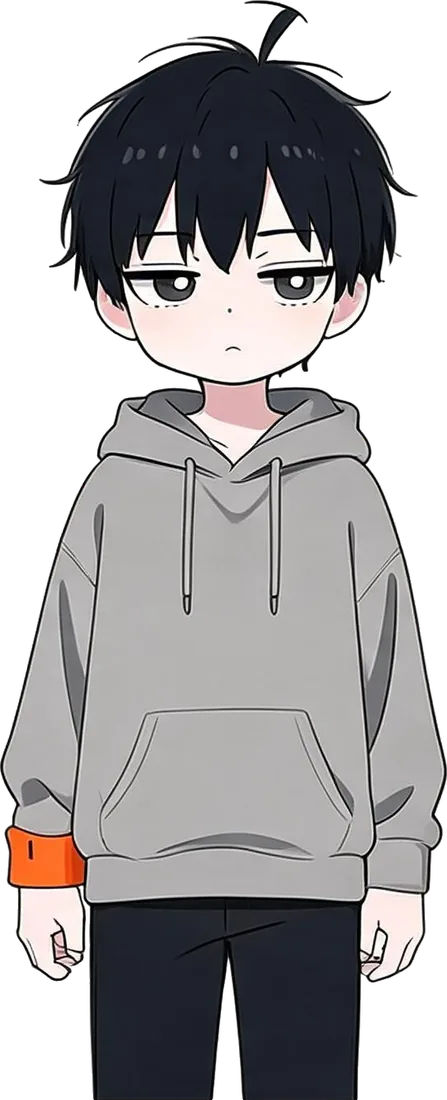
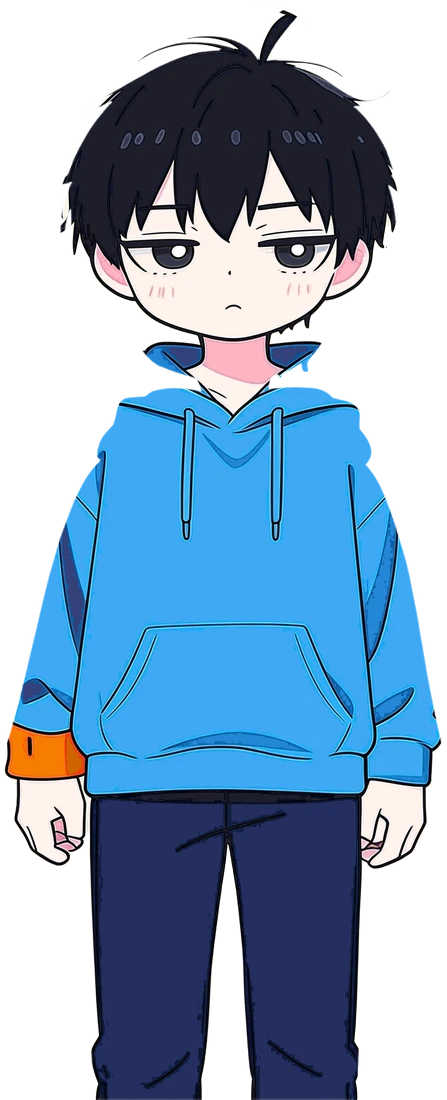
동생 정면·옆 그림(brother-front, brother-side)을 아동 컬러판(하늘색 후드·남색 바지)으로 다시 칠함

diff --git a/_tests/test_recolor_brother.py b/_tests/test_recolor_brother.py
@@ -1,0 +1,147 @@
+"""Item: recolour brother-front / brother-side to the kids colour palette.
+
+Done when
+- both images keep the size and mode of the bb74c20 original,
+- they are more colourful than the original and at least 8% colourful
+  (sky hoodie #3FA9F5, navy trousers #34407A per PALETTE.md),
+- work PNGs / candidates live only outside the repo (TEMP), never in it.
+Run: python _tests/test_recolor_brother.py
+"""
+import colorsys
+import os
+import subprocess
+import sys
+import unittest
+
+sys.dont_write_bytecode = True
+sys.path.insert(0, os.path.dirname(os.path.abspath(__file__)))
+import imgcheck  # noqa: E402
+
+NAMES = ["brother-front", "brother-side"]
+DEST = "assets/images/twins"
+MIN_COLOUR = 0.08
+MIN_GAIN = 0.03
+MIN_SHARE = 0.01  # each garment colour must cover >= 1% of opaque pixels
+
+
+def rel(n):
+    return f"{DEST}/{n}.webp"
+
+
+def hue_share(img, lo, hi, sat_min=0.35, val_max=1.0, val_min=0.0, max_side=256):
+    """Share of opaque pixels whose hue is in [lo, hi] (wraps if lo > hi)."""
+    img = img.convert("RGBA")
+    if max(img.size) > max_side:
+        img = img.copy()
+        img.thumbnail((max_side, max_side), imgcheck.Image.NEAREST)
+    total = hits = 0
+    for r, g, b, a in img.getdata():
+        if a < 128:
+            continue
+        total += 1
+        h, s, v = colorsys.rgb_to_hsv(r / 255, g / 255, b / 255)
+        h *= 360
+        inside = (lo <= h <= hi) if lo <= hi else (h >= lo or h <= hi)
+        if inside and s >= sat_min and val_min <= v <= val_max:
+            hits += 1
+    return hits / total if total else 0.0
+
+
+def sky_share(img):
+    # sky #3FA9F5 is hue ~205, bright; navy (#34407A, hue ~230, dark) must not count
+    return hue_share(img, 188, 218, sat_min=0.30, val_min=0.70)
+
+
+def navy_share(img):
+    # navy #34407A has v ~0.48; the mono art's blue-black hair/trousers (v < 0.3)
+    # must not count, so a lower brightness bound is required.
+    return hue_share(img, 215, 250, sat_min=0.30, val_max=0.65, val_min=0.30)
+
+
+class TestRecolorBrother(unittest.TestCase):
+    def test_files_exist(self):
+        missing = [n for n in NAMES if not os.path.isfile(imgcheck.repo_path(rel(n)))]
+        self.assertEqual(missing, [])
+
+    def test_changed_from_base(self):
+        same = [n for n in NAMES
+                if imgcheck.original_bytes(rel(n))
+                == open(imgcheck.repo_path(rel(n)), "rb").read()]
+        self.assertEqual(same, [], "still the bb74c20 (mono) file")
+
+    def test_size_and_mode_match_base(self):
+        bad = []
+        for n in NAMES:
+            ok, msg = imgcheck.same_size_mode(rel(n))
+            if not ok:
+                bad.append(msg)
+        self.assertEqual(bad, [])
+
+    def test_more_colourful_than_base_and_at_least_8pct(self):
+        bad = []
+        for n in NAMES:
+            old = imgcheck.colourfulness(imgcheck.original(rel(n)))
+            new = imgcheck.colourfulness(imgcheck.current(rel(n)))
+            if new < MIN_COLOUR or new < old + MIN_GAIN:
+                bad.append(f"{n}: {old:.3f} -> {new:.3f}")
+        self.assertEqual(bad, [], f"need >= {MIN_COLOUR} and > base + {MIN_GAIN}")
+
+    def test_sky_hoodie_present(self):
+        low = [f"{n}: {sky_share(imgcheck.current(rel(n))):.3f}" for n in NAMES
+               if sky_share(imgcheck.current(rel(n))) < MIN_SHARE]
+        self.assertEqual(low, [], "sky hoodie colour missing")
+
+    def test_navy_trousers_present(self):
+        low = [f"{n}: {navy_share(imgcheck.current(rel(n))):.3f}" for n in NAMES
+               if navy_share(imgcheck.current(rel(n))) < MIN_SHARE]
+        self.assertEqual(low, [], "navy trousers colour missing")
+
+    def test_transparent_background_kept(self):
+        # Cutouts: corners must stay transparent (no cream box left by recolour).
+        bad = []
+        for n in NAMES:
+            img = imgcheck.current(rel(n)).convert("RGBA")
+            w, h = img.size
+            for xy in [(0, 0), (w - 1, 0)]:
+                if img.getpixel(xy)[3] > 16:
+                    bad.append(f"{n} {xy}")
+        self.assertEqual(bad, [], "background not transparent at top corners")
+
+    def test_no_work_files_in_repo(self):
+        out = subprocess.run(
+            ["git", "status", "--porcelain", "--untracked-files=all", "--ignored"],
+            cwd=imgcheck.REPO, capture_output=True, text=True, check=True).stdout
+        stray = [line for line in out.splitlines()
+                 if "brother" in line.lower()
+                 and line.lower().rstrip('"').endswith((".png", ".webp", ".jpg", ".jpeg"))
+                 and not line[3:].strip().strip('"') in [rel(n) for n in NAMES]]
+        self.assertEqual(stray, [], "work PNG / candidate left inside the repo")
+
+
+class TestHelpers(unittest.TestCase):
+    def test_hue_share_bounds(self):
+        Image = imgcheck.Image
+        pink = Image.new("RGBA", (4, 4), (0xFF, 0x6F, 0x91, 255))
+        navy = Image.new("RGBA", (4, 4), (0x34, 0x40, 0x7A, 255))
+        sky = Image.new("RGBA", (4, 4), (0x3F, 0xA9, 0xF5, 255))
+        grey = Image.new("RGBA", (4, 4), (90, 90, 90, 255))
+        self.assertEqual(sky_share(sky), 1.0)
+        self.assertEqual(sky_share(navy), 0.0)  # too dark for sky
+        self.assertEqual(sky_share(pink), 0.0)
+        self.assertEqual(sky_share(grey), 0.0)
+        self.assertEqual(navy_share(navy), 1.0)
+        self.assertEqual(navy_share(sky), 0.0)  # too bright for navy
+        self.assertEqual(navy_share(grey), 0.0)
+        blue_black = Image.new("RGBA", (4, 4), (20, 24, 40, 255))
+        self.assertEqual(navy_share(blue_black), 0.0)  # mono hair, not navy
+        self.assertEqual(sky_share(Image.new("RGBA", (4, 4), (0x3F, 0xA9, 0xF5, 0))), 0.0)
+
+    def test_base_is_not_sky_navy(self):
+        # The mono originals must fail the garment checks, else they prove nothing.
+        for n in NAMES:
+            old = imgcheck.original(rel(n))
+            self.assertLess(min(sky_share(old), navy_share(old)), MIN_SHARE, n)
+
+
+if __name__ == "__main__":
+    unittest.main(verbosity=1)
